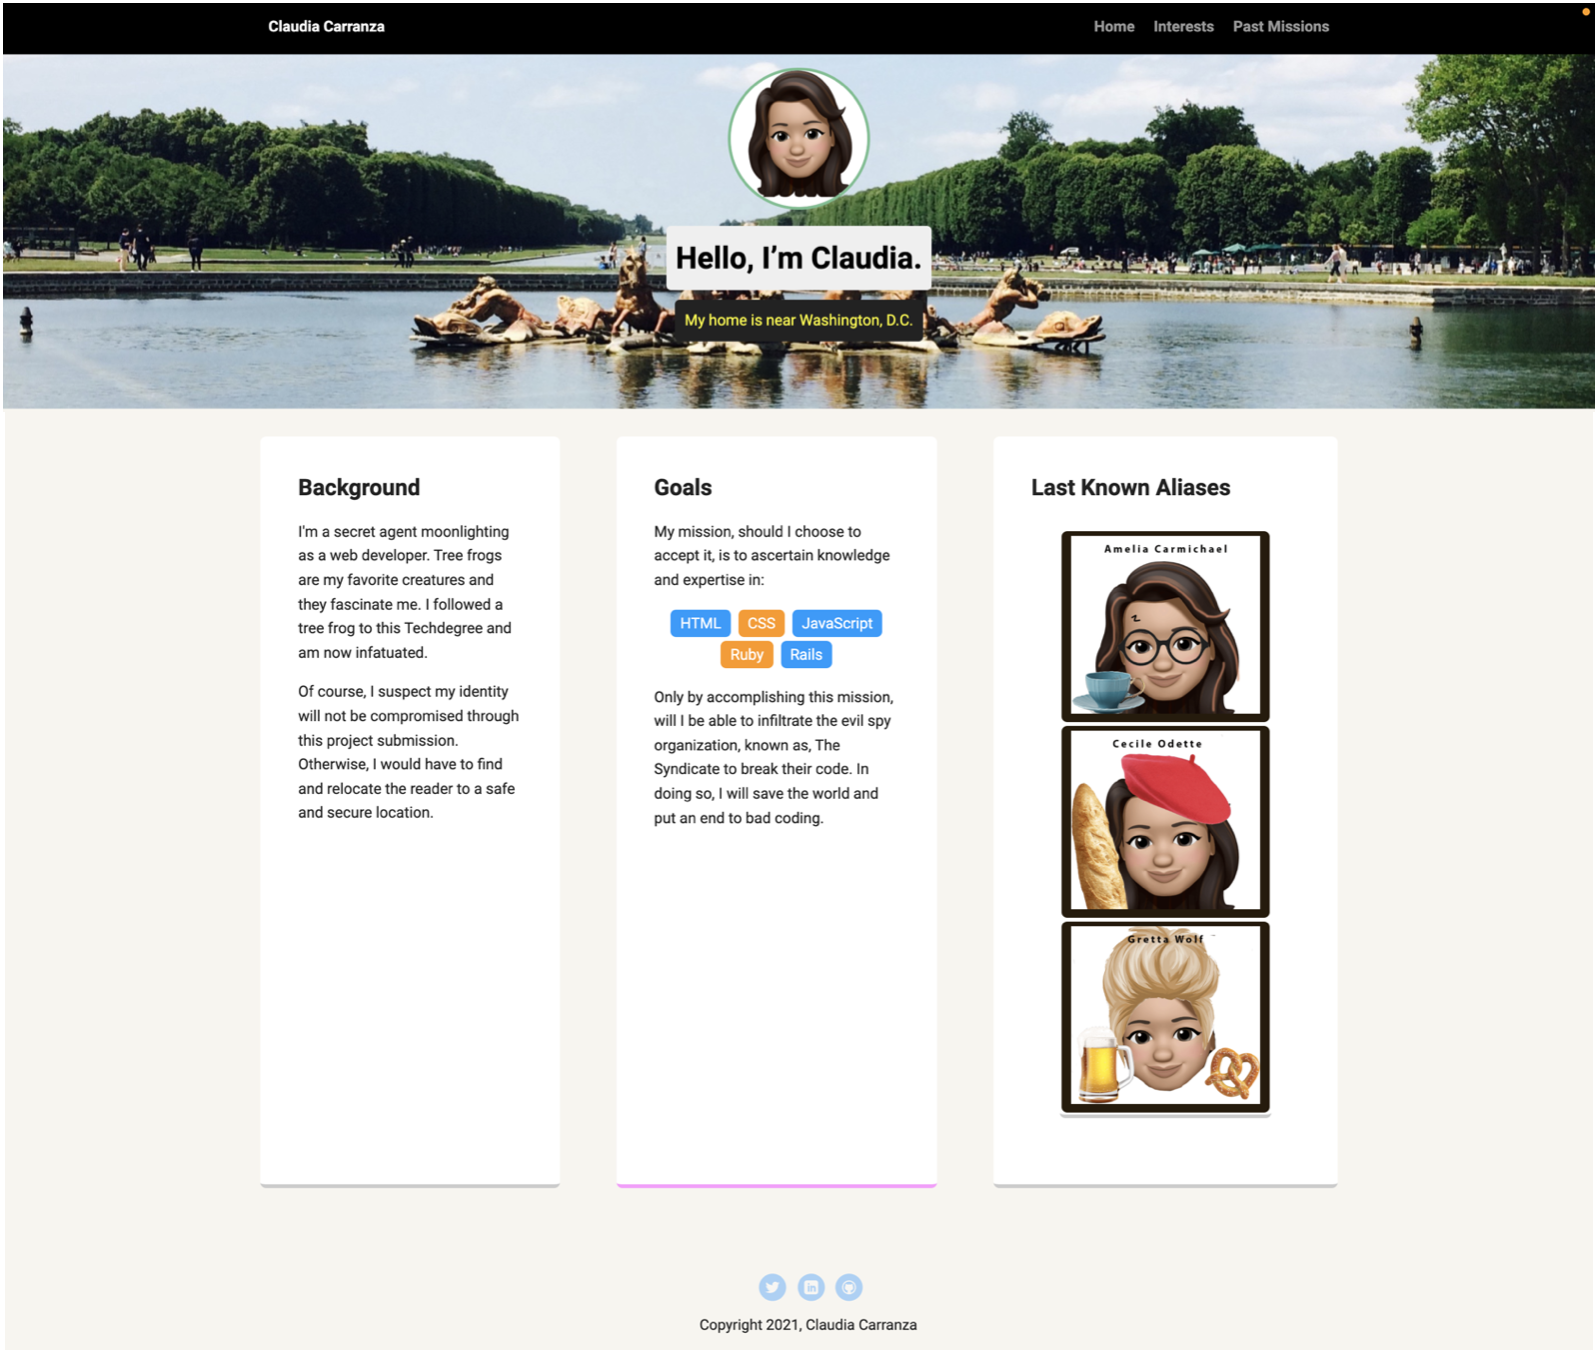
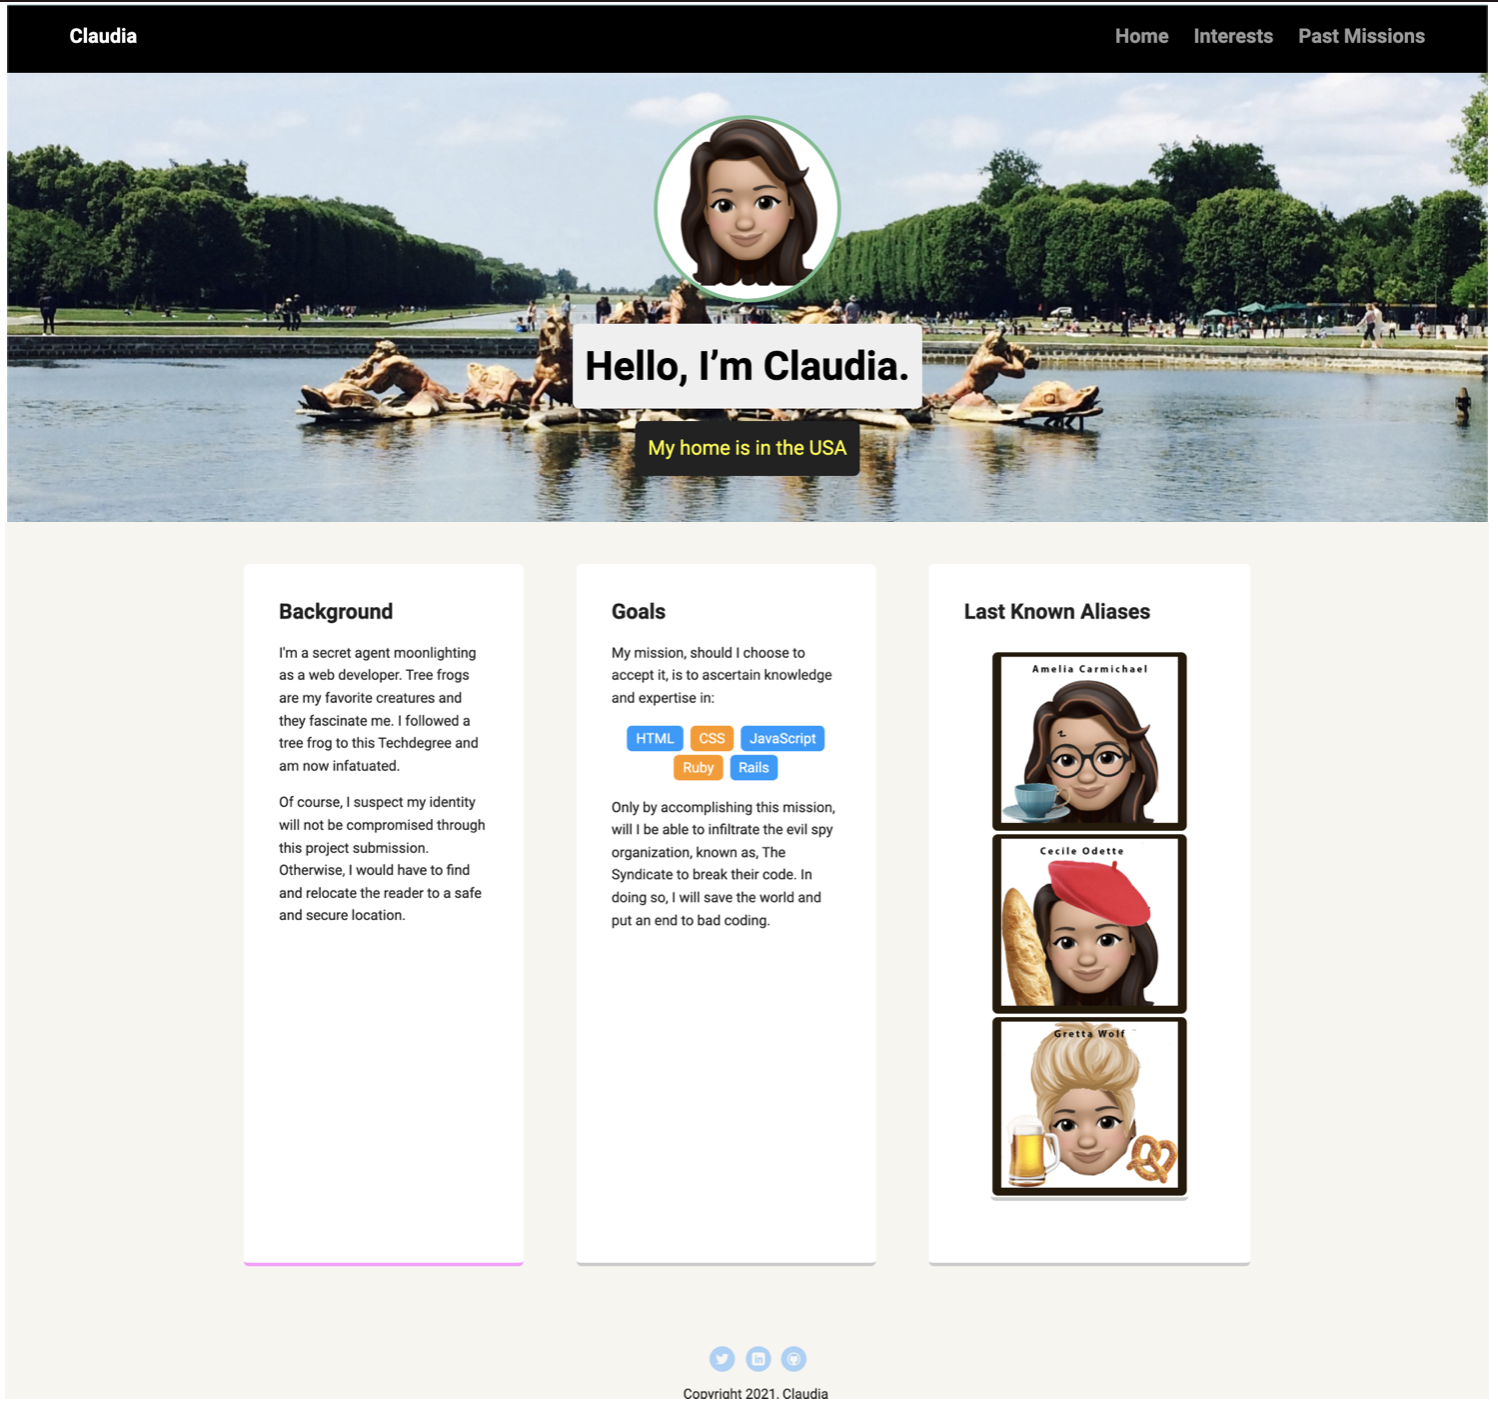
updated screenshots

diff --git a/index.html b/index.html
@@ -2,7 +2,7 @@
 <html lang="en">
 <head>
   <meta charset="utf-8">
-  <title>Claudia Carranza's Profile</title>
+  <title>Claudia's Profile</title>
   <meta name="viewport" content="width=device-width, initial-scale=1.0">
   <link rel="stylesheet" href="styles.css">
   <link href="https://fonts.googleapis.com/css?family=Muli%7CRoboto:400,300,500,700,900" rel="stylesheet"></head>
@@ -10,7 +10,7 @@
 
     <nav class="main-nav">
         <ul class="nav">
-          <li class="name">Claudia Carranza</li>
+          <li class="name">Claudia</li>
           <li><a href="index.html">Home</a></li>
           <li><a href="interests.html">Interests</a></li>
           <li><a href="past-missions.html">Past Missions</a></li>
@@ -18,9 +18,9 @@
     </nav>
 
     <header>
-      <img src="images/new-me.jpeg" alt="Avatar of Claudia Carranza" class="profile-image">
+      <img src="images/new-me.jpeg" alt="Avatar of Claudia" class="profile-image">
       <h1 class="tag name">Hello, I’m Claudia.</h1>
-      <p class="tag location">My home is near Washington, D.C.</p>
+      <p class="tag location">My home is in the USA</p>
     </header>
 
     <main class="flex">
@@ -58,7 +58,7 @@
         <li><a href="https://www.linkedin.com/in/claudia-carranza-20024659/" class="social linkedin">LinkedIn</a></li>
         <li><a href="https://github.com/bloudcloudcomms" class="social github">Github</a></li>
       </ul>
-      <p class="copyright">Copyright 2021, Claudia Carranza</p>
+      <p class="copyright">Copyright 2021, Claudia</p>
     </footer>
   </body>
   </html>

diff --git a/interests.html b/interests.html
@@ -2,7 +2,7 @@
 <html lang="en">
 <head>
   <meta charset="utf-8">
-  <title>Claudia Carranza's Profile</title>
+  <title>Claudia's Profile</title>
   <meta name="viewport" content="width=device-width, initial-scale=1.0">
   <link rel="stylesheet" href="styles.css">
   <link href="https://fonts.googleapis.com/css?family=Muli%7CRoboto:400,300,500,700,900" rel="stylesheet"></head>
@@ -10,7 +10,7 @@
 
     <nav class="main-nav">
         <ul class="nav">
-          <li class="name">Claudia Carranza</li>
+          <li class="name">Claudia</li>
           <li><a href="index.html">Home</a></li>
           <li><a href="interests.html">Interests</a></li>
           <li><a href="past-missions.html">Past Missions</a></li>
@@ -46,7 +46,7 @@
         <li><a href="https://www.linkedin.com/in/claudia-carranza-20024659/" class="social linkedin">LinkedIn</a></li>
         <li><a href="https://github.com/bloudcloudcomms" class="social github">Github</a></li>
       </ul>
-      <p class="copyright">Copyright 2021, Claudia Carranza</p>
+      <p class="copyright">Copyright 2021, Claudia</p>
     </footer>
   </body>
   </html>

diff --git a/past-missions.html b/past-missions.html
@@ -2,7 +2,7 @@
 <html lang="en">
 <head>
   <meta charset="utf-8">
-  <title>Claudia Carranza's Profile</title>
+  <title>Claudia's Profile</title>
   <meta name="viewport" content="width=device-width, initial-scale=1.0">
   <link rel="stylesheet" href="styles.css">
   <link href="https://fonts.googleapis.com/css?family=Muli%7CRoboto:400,300,500,700,900" rel="stylesheet"></head>
@@ -10,7 +10,7 @@
 
     <nav class="main-nav">
         <ul class="nav">
-          <li class="name">Claudia Carranza</li>
+          <li class="name">Claudia</li>
           <li><a href="index.html">Home</a></li>
           <li><a href="interests.html">Interests</a></li>
           <li><a href="past-missions.html">Past Missions</a></li>
@@ -46,7 +46,7 @@
         <li><a href="https://www.linkedin.com/in/claudia-carranza-20024659/" class="social linkedin">LinkedIn</a></li>
         <li><a href="https://github.com/bloudcloudcomms" class="social github">Github</a></li>
       </ul>
-      <p class="copyright">Copyright 2021, Claudia Carranza</p>
+      <p class="copyright">Copyright 2021, Claudia</p>
     </footer>
   </body>
   </html>
